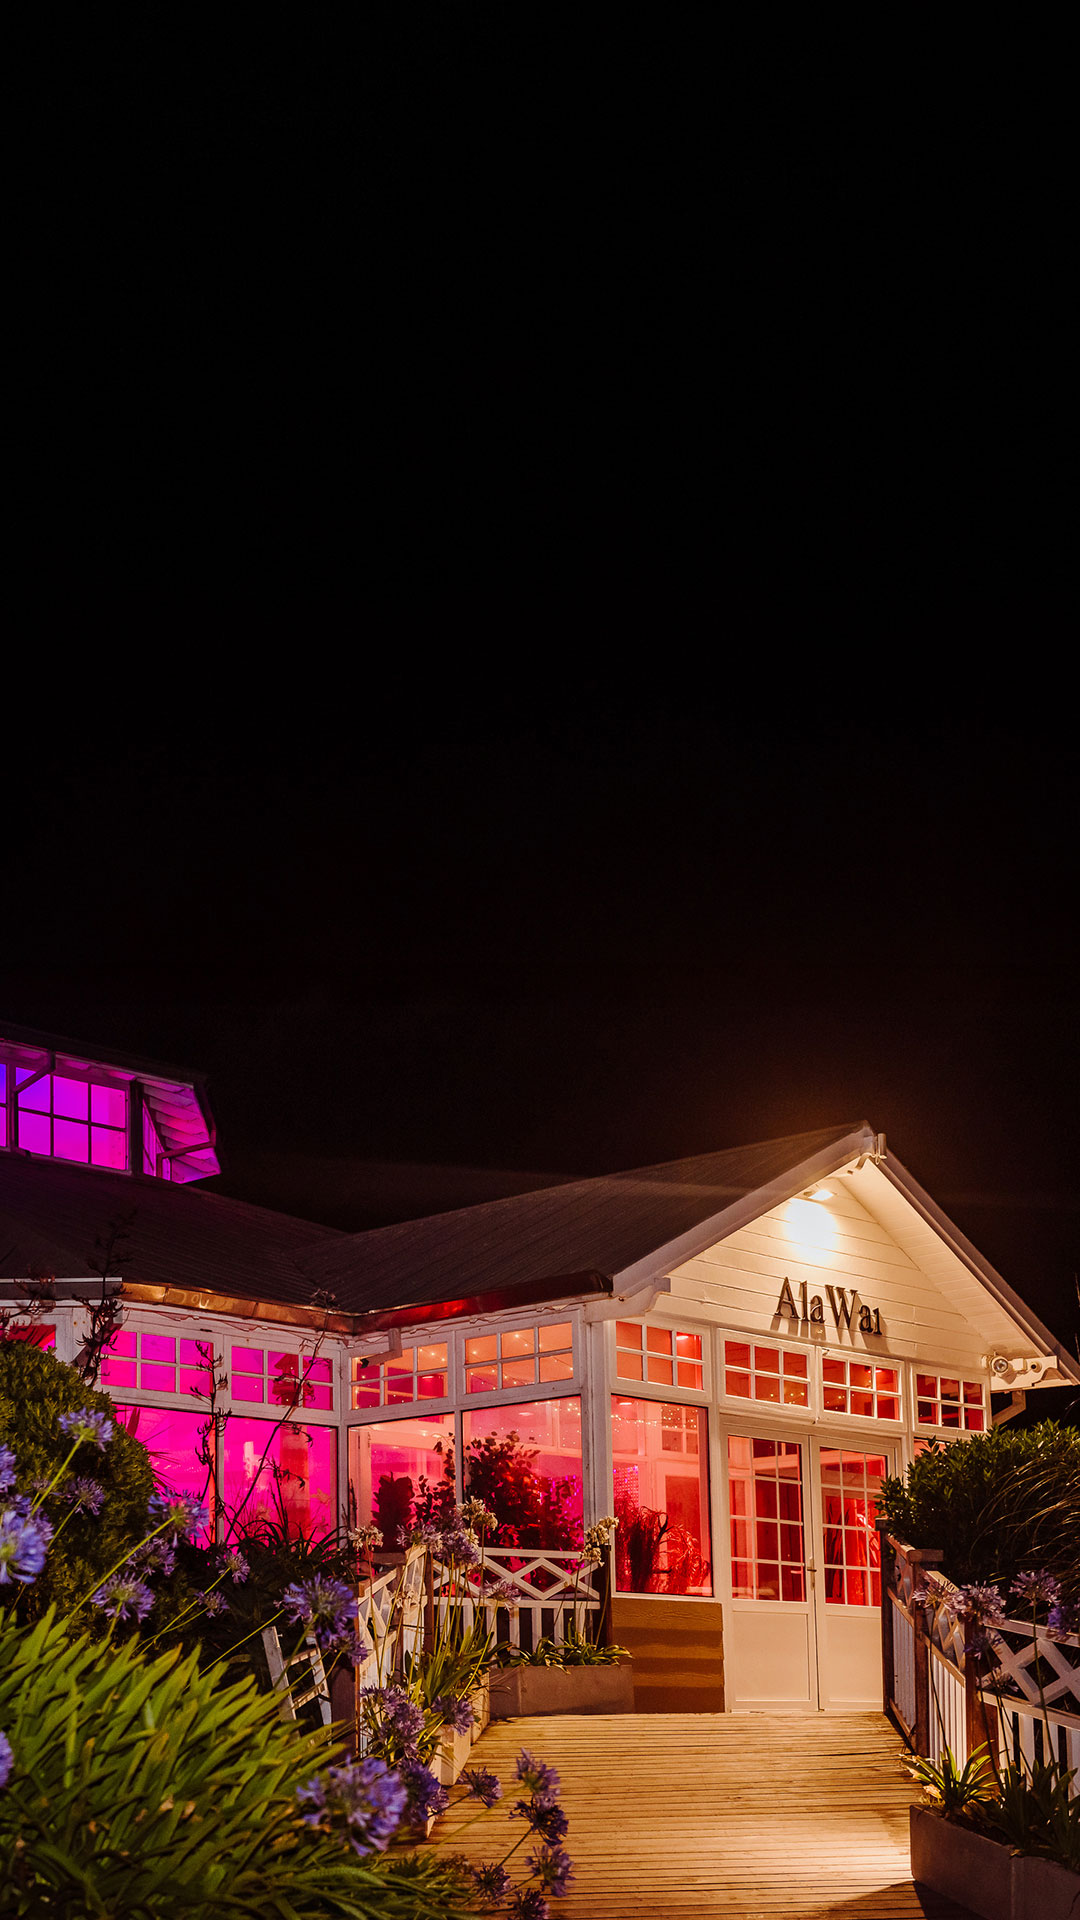
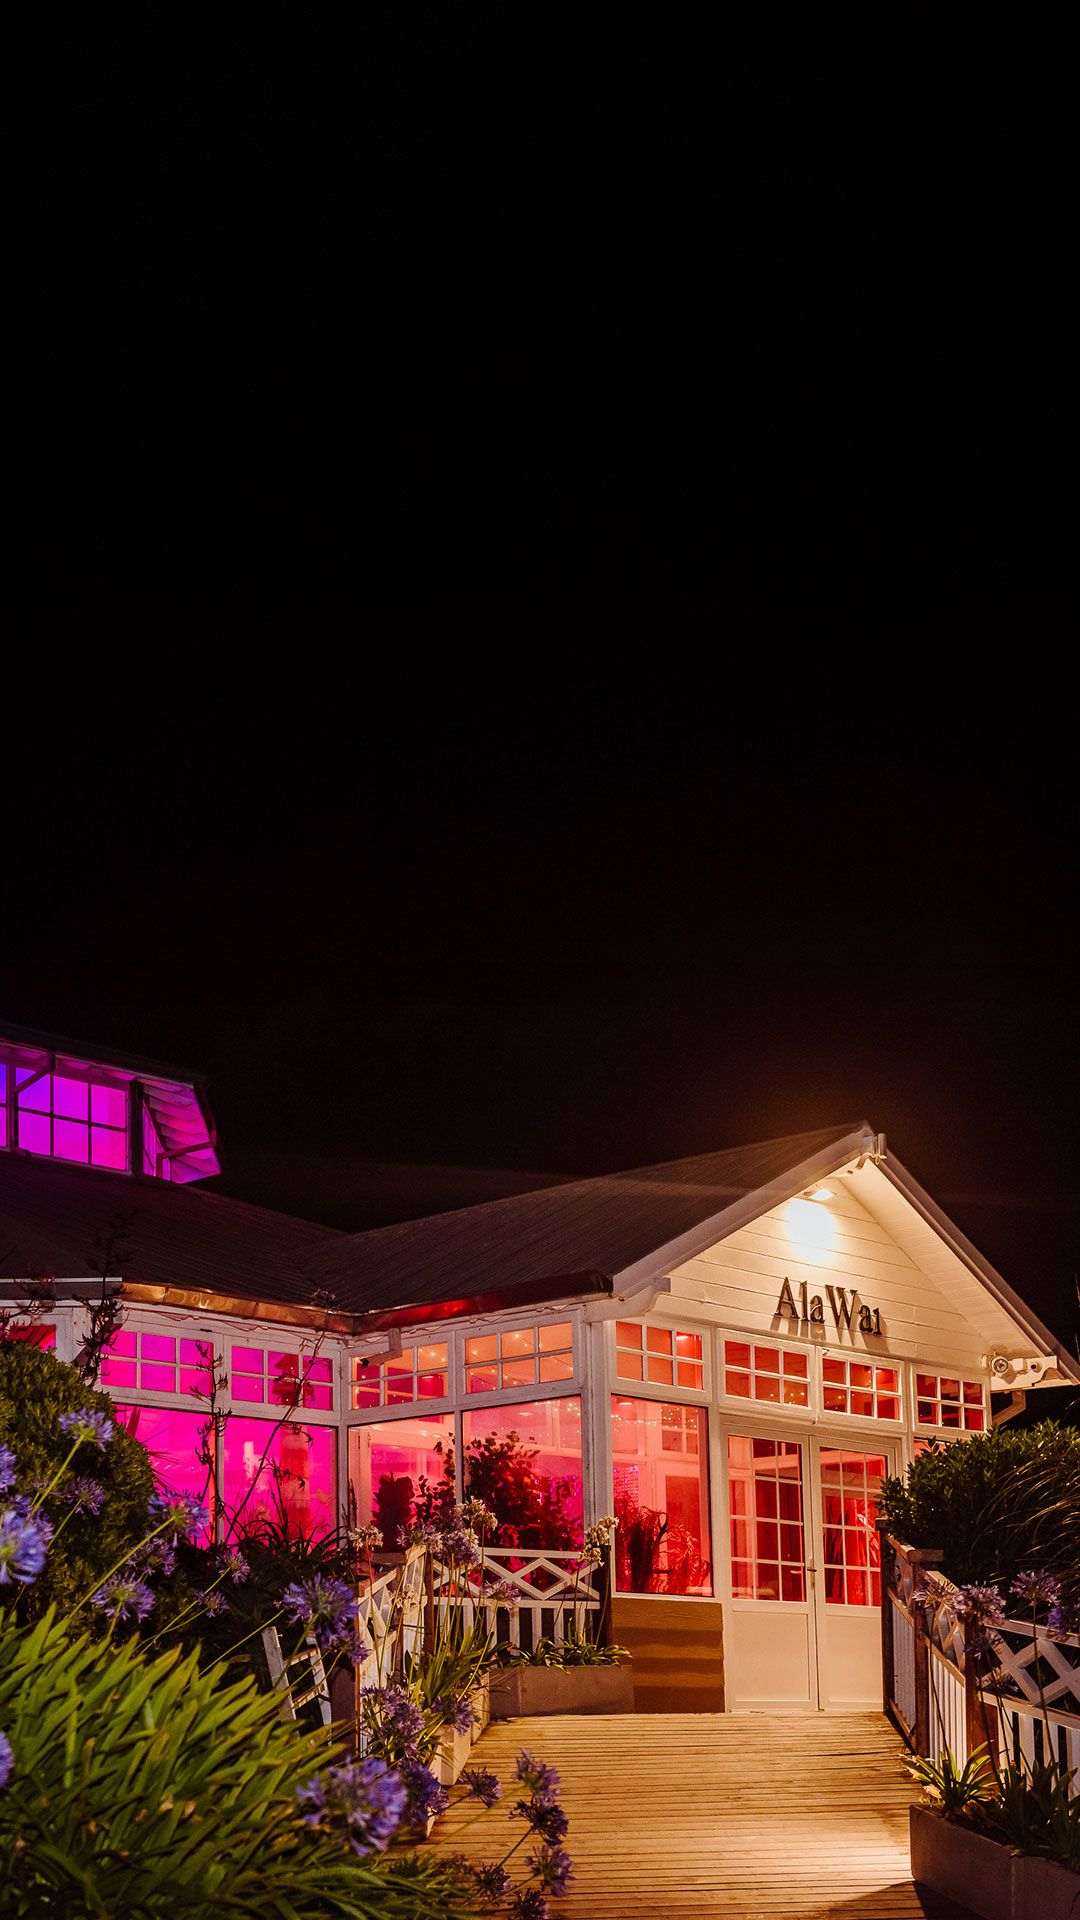
Performance overhaul: images, async fonts, CLS fixes, heading order
- Compress 13 images: avg −60%, saving ~2.6MB on home page load
- Fix video preload="auto" → preload="metadata" (was forcing 14.5MB download)
- Convert Google Fonts to async non-blocking loading on all 10 pages
- Fix loader CLS: width→transform:scaleX, visibility→pointer-events
- Fix heading order: h4→h2 in footer (accessibility + SEO)
- Add explicit width/height to logo images

https://claude.ai/code/session_01REkw2sKN2P9ToZ7ZHYuz5d

diff --git a/index.html b/index.html
@@ -55,7 +55,8 @@
   </script>
   <link rel="preconnect" href="https://fonts.googleapis.com">
   <link rel="preconnect" href="https://fonts.gstatic.com" crossorigin>
-  <link href="https://fonts.googleapis.com/css2?family=Sacramento&family=Cormorant+Garamond:ital,wght@0,300;0,400;0,600;1,300;1,400&family=Montserrat:wght@300;400;500;600;700;800&display=swap" rel="stylesheet">
+  <link rel="preload" as="style" href="https://fonts.googleapis.com/css2?family=Sacramento&family=Cormorant+Garamond:ital,wght@0,300;0,400;0,600;1,300;1,400&family=Montserrat:wght@300;400;500;600;700;800&display=swap" onload="this.rel='stylesheet'">
+  <noscript><link rel="stylesheet" href="https://fonts.googleapis.com/css2?family=Sacramento&family=Cormorant+Garamond:ital,wght@0,300;0,400;0,600;1,300;1,400&family=Montserrat:wght@300;400;500;600;700;800&display=swap"></noscript>
   <link rel="stylesheet" href="assets/css/styles.css">
   <style>
     /* ===================================================
@@ -486,7 +487,7 @@
   <!-- Page Loader -->
   <div class="page-loader" id="pageLoader">
     <div class="loader-logo">
-      <img src="assets/images/logo.png" alt="Mar Eventos" class="logo-img logo-img-loader" style="height:56px;width:auto;max-width:none;">
+      <img src="assets/images/logo.png" alt="Mar Eventos" class="logo-img logo-img-loader" width="80" height="56" style="height:56px;width:auto;max-width:none;">
     </div>
     <div class="loader-bar-wrap"><div class="loader-bar" id="loaderBar"></div></div>
   </div>
@@ -494,7 +495,7 @@
   <!-- Navigation -->
   <nav class="navbar" id="navbar">
     <a href="/" class="nav-logo-link" aria-label="Mar Eventos">
-      <img src="assets/images/logo-white.png" alt="Mar Eventos" class="logo-img" style="height:36px;width:auto;max-width:none;">
+      <img src="assets/images/logo-white.png" alt="Mar Eventos" class="logo-img" width="51" height="36" style="height:36px;width:auto;max-width:none;">
     </a>
     <button class="nav-toggle" id="navToggle" aria-label="Abrir menú" type="button" style="background:transparent;border:none;-webkit-appearance:none;appearance:none;border-radius:0;box-shadow:none;padding:8px;">
       <span></span><span></span><span></span>
@@ -522,7 +523,7 @@
 
   <!-- ===================== HERO ===================== -->
   <section class="hero">
-    <video class="hero-video" id="hero-video" autoplay muted loop playsinline preload="auto" poster="assets/images/cover-waikiki.jpg">
+    <video class="hero-video" id="hero-video" autoplay muted loop playsinline preload="metadata" poster="assets/images/cover-waikiki.jpg">
       <source src="assets/videos/ceremonia-fiesta.mp4" type="video/mp4">
     </video>
     <img class="hero-fallback" id="hero-fallback" src="assets/images/cover-waikiki.jpg" alt="" style="display:none;position:absolute;inset:0;width:100%;height:100%;object-fit:cover;z-index:0;">
@@ -854,7 +855,7 @@
       <div class="footer-grid">
         <div class="footer-brand">
           <div class="footer-logo-svg">
-          <img src="assets/images/logo-white.png" alt="Mar Eventos" class="logo-img logo-img-footer" style="height:44px;width:auto;max-width:none;">
+          <img src="assets/images/logo-white.png" alt="Mar Eventos" class="logo-img logo-img-footer" width="63" height="44" style="height:44px;width:auto;max-width:none;">
         </div>
           <p>Especialistas en la producción integral de eventos en Mar del Plata. Hacemos realidad el evento que siempre soñaste, en los salones más exclusivos frente al mar.</p>
           <div class="footer-social">
@@ -870,7 +871,7 @@
           </div>
         </div>
         <div class="footer-col">
-          <h4>Nuestros Salones</h4>
+          <h2 class="footer-heading">Nuestros Salones</h2>
           <div class="footer-links">
             <a href="salon-ala-wai">Salón Ala Wai</a>
             <a href="salon-mirador-9">Salón Mirador 9</a>
@@ -879,7 +880,7 @@
           </div>
         </div>
         <div class="footer-col">
-          <h4>Navegación</h4>
+          <h2 class="footer-heading">Navegación</h2>
           <div class="footer-links">
             <a href="/">Inicio</a>
             <a href="nosotros">Nosotros</a>
@@ -889,7 +890,7 @@
           </div>
         </div>
         <div class="footer-col">
-          <h4>Contacto</h4>
+          <h2 class="footer-heading">Contacto</h2>
           <div class="footer-contact-item">
             <svg xmlns="http://www.w3.org/2000/svg" viewBox="0 0 24 24" fill="none" stroke="currentColor" stroke-width="2"><path d="M21 10c0 7-9 13-9 13s-9-6-9-13a9 9 0 0 1 18 0z"/><circle cx="12" cy="10" r="3"/></svg>
             <span>Av. de los Trabajadores 4320, Mar del Plata</span>

diff --git a/salon-mirador-9.html b/salon-mirador-9.html
@@ -21,7 +21,8 @@
   <meta name="twitter:image" content="https://mareventos.com.ar/assets/images/mirador9-exterior-noche.jpg">
   <link rel="preconnect" href="https://fonts.googleapis.com">
   <link rel="preconnect" href="https://fonts.gstatic.com" crossorigin>
-  <link href="https://fonts.googleapis.com/css2?family=Sacramento&family=Cormorant+Garamond:ital,wght@0,300;0,400;0,600;1,300;1,400&family=Montserrat:wght@300;400;500;600;700;800&display=swap" rel="stylesheet">
+  <link rel="preload" as="style" href="https://fonts.googleapis.com/css2?family=Sacramento&family=Cormorant+Garamond:ital,wght@0,300;0,400;0,600;1,300;1,400&family=Montserrat:wght@300;400;500;600;700;800&display=swap" onload="this.rel='stylesheet'">
+  <noscript><link rel="stylesheet" href="https://fonts.googleapis.com/css2?family=Sacramento&family=Cormorant+Garamond:ital,wght@0,300;0,400;0,600;1,300;1,400&family=Montserrat:wght@300;400;500;600;700;800&display=swap"></noscript>
   <link rel="stylesheet" href="assets/css/styles.css">
   <!-- Google tag (gtag.js) -->
   <script async src="https://www.googletagmanager.com/gtag/js?id=G-84M4Z688FN"></script>

diff --git a/salon-hula-kai.html b/salon-hula-kai.html
@@ -21,7 +21,8 @@
   <meta name="twitter:image" content="https://mareventos.com.ar/assets/images/hula-kai-interior-full.jpg">
   <link rel="preconnect" href="https://fonts.googleapis.com">
   <link rel="preconnect" href="https://fonts.gstatic.com" crossorigin>
-  <link href="https://fonts.googleapis.com/css2?family=Sacramento&family=Cormorant+Garamond:ital,wght@0,300;0,400;0,600;1,300;1,400&family=Montserrat:wght@300;400;500;600;700;800&display=swap" rel="stylesheet">
+  <link rel="preload" as="style" href="https://fonts.googleapis.com/css2?family=Sacramento&family=Cormorant+Garamond:ital,wght@0,300;0,400;0,600;1,300;1,400&family=Montserrat:wght@300;400;500;600;700;800&display=swap" onload="this.rel='stylesheet'">
+  <noscript><link rel="stylesheet" href="https://fonts.googleapis.com/css2?family=Sacramento&family=Cormorant+Garamond:ital,wght@0,300;0,400;0,600;1,300;1,400&family=Montserrat:wght@300;400;500;600;700;800&display=swap"></noscript>
   <link rel="stylesheet" href="assets/css/styles.css">
   <!-- Google tag (gtag.js) -->
   <script async src="https://www.googletagmanager.com/gtag/js?id=G-84M4Z688FN"></script>

diff --git a/galeria.html b/galeria.html
@@ -21,7 +21,8 @@
   <meta name="twitter:image" content="https://mareventos.com.ar/assets/images/alawai-interior-noche.jpg">
   <link rel="preconnect" href="https://fonts.googleapis.com">
   <link rel="preconnect" href="https://fonts.gstatic.com" crossorigin>
-  <link href="https://fonts.googleapis.com/css2?family=Sacramento&family=Cormorant+Garamond:ital,wght@0,300;0,400;0,600;1,300;1,400&family=Montserrat:wght@300;400;500;600;700;800&display=swap" rel="stylesheet">
+  <link rel="preload" as="style" href="https://fonts.googleapis.com/css2?family=Sacramento&family=Cormorant+Garamond:ital,wght@0,300;0,400;0,600;1,300;1,400&family=Montserrat:wght@300;400;500;600;700;800&display=swap" onload="this.rel='stylesheet'">
+  <noscript><link rel="stylesheet" href="https://fonts.googleapis.com/css2?family=Sacramento&family=Cormorant+Garamond:ital,wght@0,300;0,400;0,600;1,300;1,400&family=Montserrat:wght@300;400;500;600;700;800&display=swap"></noscript>
   <link rel="stylesheet" href="assets/css/styles.css">
   <!-- Google tag (gtag.js) -->
   <script async src="https://www.googletagmanager.com/gtag/js?id=G-84M4Z688FN"></script>

diff --git a/salon-ala-wai.html b/salon-ala-wai.html
@@ -21,7 +21,8 @@
   <meta name="twitter:image" content="https://mareventos.com.ar/assets/images/alawai-interior-dia.jpg">
   <link rel="preconnect" href="https://fonts.googleapis.com">
   <link rel="preconnect" href="https://fonts.gstatic.com" crossorigin>
-  <link href="https://fonts.googleapis.com/css2?family=Sacramento&family=Cormorant+Garamond:ital,wght@0,300;0,400;0,600;1,300;1,400&family=Montserrat:wght@300;400;500;600;700;800&display=swap" rel="stylesheet">
+  <link rel="preload" as="style" href="https://fonts.googleapis.com/css2?family=Sacramento&family=Cormorant+Garamond:ital,wght@0,300;0,400;0,600;1,300;1,400&family=Montserrat:wght@300;400;500;600;700;800&display=swap" onload="this.rel='stylesheet'">
+  <noscript><link rel="stylesheet" href="https://fonts.googleapis.com/css2?family=Sacramento&family=Cormorant+Garamond:ital,wght@0,300;0,400;0,600;1,300;1,400&family=Montserrat:wght@300;400;500;600;700;800&display=swap"></noscript>
   <link rel="stylesheet" href="assets/css/styles.css">
   <!-- Google tag (gtag.js) -->
   <script async src="https://www.googletagmanager.com/gtag/js?id=G-84M4Z688FN"></script>

diff --git a/servicios.html b/servicios.html
@@ -21,7 +21,8 @@
   <meta name="twitter:image" content="https://mareventos.com.ar/assets/images/event-mesa-larga.jpg">
   <link rel="preconnect" href="https://fonts.googleapis.com">
   <link rel="preconnect" href="https://fonts.gstatic.com" crossorigin>
-  <link href="https://fonts.googleapis.com/css2?family=Sacramento&family=Cormorant+Garamond:ital,wght@0,300;0,400;0,600;1,300;1,400&family=Montserrat:wght@300;400;500;600;700;800&display=swap" rel="stylesheet">
+  <link rel="preload" as="style" href="https://fonts.googleapis.com/css2?family=Sacramento&family=Cormorant+Garamond:ital,wght@0,300;0,400;0,600;1,300;1,400&family=Montserrat:wght@300;400;500;600;700;800&display=swap" onload="this.rel='stylesheet'">
+  <noscript><link rel="stylesheet" href="https://fonts.googleapis.com/css2?family=Sacramento&family=Cormorant+Garamond:ital,wght@0,300;0,400;0,600;1,300;1,400&family=Montserrat:wght@300;400;500;600;700;800&display=swap"></noscript>
   <link rel="stylesheet" href="assets/css/styles.css">
   <!-- Google tag (gtag.js) -->
   <script async src="https://www.googletagmanager.com/gtag/js?id=G-84M4Z688FN"></script>

diff --git a/nosotros.html b/nosotros.html
@@ -21,7 +21,8 @@
   <meta name="twitter:image" content="https://mareventos.com.ar/assets/images/cover-waikiki.jpg">
   <link rel="preconnect" href="https://fonts.googleapis.com">
   <link rel="preconnect" href="https://fonts.gstatic.com" crossorigin>
-  <link href="https://fonts.googleapis.com/css2?family=Sacramento&family=Cormorant+Garamond:ital,wght@0,300;0,400;0,600;1,300;1,400&family=Montserrat:wght@300;400;500;600;700;800&display=swap" rel="stylesheet">
+  <link rel="preload" as="style" href="https://fonts.googleapis.com/css2?family=Sacramento&family=Cormorant+Garamond:ital,wght@0,300;0,400;0,600;1,300;1,400&family=Montserrat:wght@300;400;500;600;700;800&display=swap" onload="this.rel='stylesheet'">
+  <noscript><link rel="stylesheet" href="https://fonts.googleapis.com/css2?family=Sacramento&family=Cormorant+Garamond:ital,wght@0,300;0,400;0,600;1,300;1,400&family=Montserrat:wght@300;400;500;600;700;800&display=swap"></noscript>
   <link rel="stylesheet" href="assets/css/styles.css">
   <!-- Google tag (gtag.js) -->
   <script async src="https://www.googletagmanager.com/gtag/js?id=G-84M4Z688FN"></script>

diff --git a/salon-mirador-waikiki.html b/salon-mirador-waikiki.html
@@ -21,7 +21,8 @@
   <meta name="twitter:image" content="https://mareventos.com.ar/assets/images/cover-waikiki.jpg">
   <link rel="preconnect" href="https://fonts.googleapis.com">
   <link rel="preconnect" href="https://fonts.gstatic.com" crossorigin>
-  <link href="https://fonts.googleapis.com/css2?family=Sacramento&family=Cormorant+Garamond:ital,wght@0,300;0,400;0,600;1,300;1,400&family=Montserrat:wght@300;400;500;600;700;800&display=swap" rel="stylesheet">
+  <link rel="preload" as="style" href="https://fonts.googleapis.com/css2?family=Sacramento&family=Cormorant+Garamond:ital,wght@0,300;0,400;0,600;1,300;1,400&family=Montserrat:wght@300;400;500;600;700;800&display=swap" onload="this.rel='stylesheet'">
+  <noscript><link rel="stylesheet" href="https://fonts.googleapis.com/css2?family=Sacramento&family=Cormorant+Garamond:ital,wght@0,300;0,400;0,600;1,300;1,400&family=Montserrat:wght@300;400;500;600;700;800&display=swap"></noscript>
   <link rel="stylesheet" href="assets/css/styles.css">
   <!-- Google tag (gtag.js) -->
   <script async src="https://www.googletagmanager.com/gtag/js?id=G-84M4Z688FN"></script>

diff --git a/contacto.html b/contacto.html
@@ -21,7 +21,8 @@
   <meta name="twitter:image" content="https://mareventos.com.ar/assets/images/cover-waikiki.jpg">
   <link rel="preconnect" href="https://fonts.googleapis.com">
   <link rel="preconnect" href="https://fonts.gstatic.com" crossorigin>
-  <link href="https://fonts.googleapis.com/css2?family=Sacramento&family=Cormorant+Garamond:ital,wght@0,300;0,400;0,600;1,300;1,400&family=Montserrat:wght@300;400;500;600;700;800&display=swap" rel="stylesheet">
+  <link rel="preload" as="style" href="https://fonts.googleapis.com/css2?family=Sacramento&family=Cormorant+Garamond:ital,wght@0,300;0,400;0,600;1,300;1,400&family=Montserrat:wght@300;400;500;600;700;800&display=swap" onload="this.rel='stylesheet'">
+  <noscript><link rel="stylesheet" href="https://fonts.googleapis.com/css2?family=Sacramento&family=Cormorant+Garamond:ital,wght@0,300;0,400;0,600;1,300;1,400&family=Montserrat:wght@300;400;500;600;700;800&display=swap"></noscript>
   <link rel="stylesheet" href="assets/css/styles.css">
   <style>
     .page-hero { height: clamp(600px, 82vh, 920px); }

diff --git a/presupuesto.html b/presupuesto.html
@@ -8,7 +8,8 @@
 <title>Mar Eventos — Propuesta · Clínica Pueyrredon</title>
 <link rel="preconnect" href="https://fonts.googleapis.com">
 <link rel="preconnect" href="https://fonts.gstatic.com" crossorigin>
-<link href="https://fonts.googleapis.com/css2?family=Sacramento&family=Cormorant+Garamond:ital,wght@0,300;0,400;0,600;1,300;1,400;1,600&family=Montserrat:wght@300;400;500;600;700&display=swap" rel="stylesheet">
+<link rel="preload" as="style" href="https://fonts.googleapis.com/css2?family=Sacramento&family=Cormorant+Garamond:ital,wght@0,300;0,400;0,600;1,300;1,400;1,600&family=Montserrat:wght@300;400;500;600;700&display=swap" onload="this.rel='stylesheet'">
+  <noscript><link rel="stylesheet" href="https://fonts.googleapis.com/css2?family=Sacramento&family=Cormorant+Garamond:ital,wght@0,300;0,400;0,600;1,300;1,400;1,600&family=Montserrat:wght@300;400;500;600;700&display=swap"></noscript>
 <style>
 
 *, *::before, *::after { box-sizing: border-box; margin: 0; padding: 0; }

diff --git a/assets/css/styles.css b/assets/css/styles.css
@@ -1537,7 +1537,7 @@ textarea.form-control {
 
 .social-btn svg { width: 18px; height: 18px; }
 
-.footer-col h4 {
+.footer-col h2, .footer-col h4 {
   font-family: var(--font-sans);
   font-size: 0.68rem;
   font-weight: 700;
@@ -1934,11 +1934,11 @@ textarea.form-control {
   justify-content: center;
   flex-direction: column;
   gap: 28px;
-  transition: opacity 0.6s ease, visibility 0.6s ease;
+  transition: opacity 0.6s ease;
 }
 .page-loader.out {
   opacity: 0;
-  visibility: hidden;
+  pointer-events: none;
 }
 .loader-logo {
   display: flex;
@@ -1960,8 +1960,10 @@ textarea.form-control {
 .loader-bar {
   height: 100%;
   background: var(--green);
-  width: 0%;
-  transition: width 0.8s cubic-bezier(0.16,1,0.3,1);
+  width: 100%;
+  transform: scaleX(0);
+  transform-origin: left;
+  transition: transform 0.8s cubic-bezier(0.16,1,0.3,1);
 }
 
 /* ----- Custom Cursor ----- */

diff --git a/assets/js/main.js b/assets/js/main.js
@@ -5,9 +5,9 @@ const loader = document.querySelector('.page-loader');
 if (loader) {
   const bar = loader.querySelector('.loader-bar');
   if (bar) {
-    bar.style.width = '0%';
-    setTimeout(() => { bar.style.width = '70%'; }, 100);
-    setTimeout(() => { bar.style.width = '100%'; }, 500);
+    bar.style.transform = 'scaleX(0)';
+    setTimeout(() => { bar.style.transform = 'scaleX(0.7)'; }, 100);
+    setTimeout(() => { bar.style.transform = 'scaleX(1)'; }, 500);
   }
   window.addEventListener('load', () => {
     setTimeout(() => {
